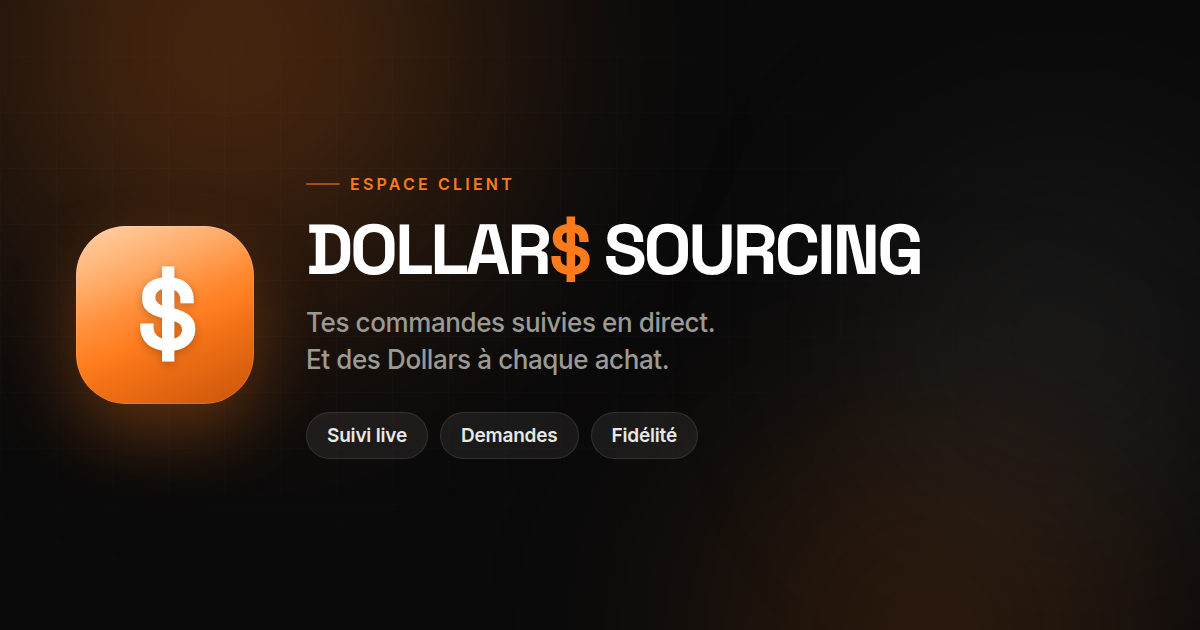
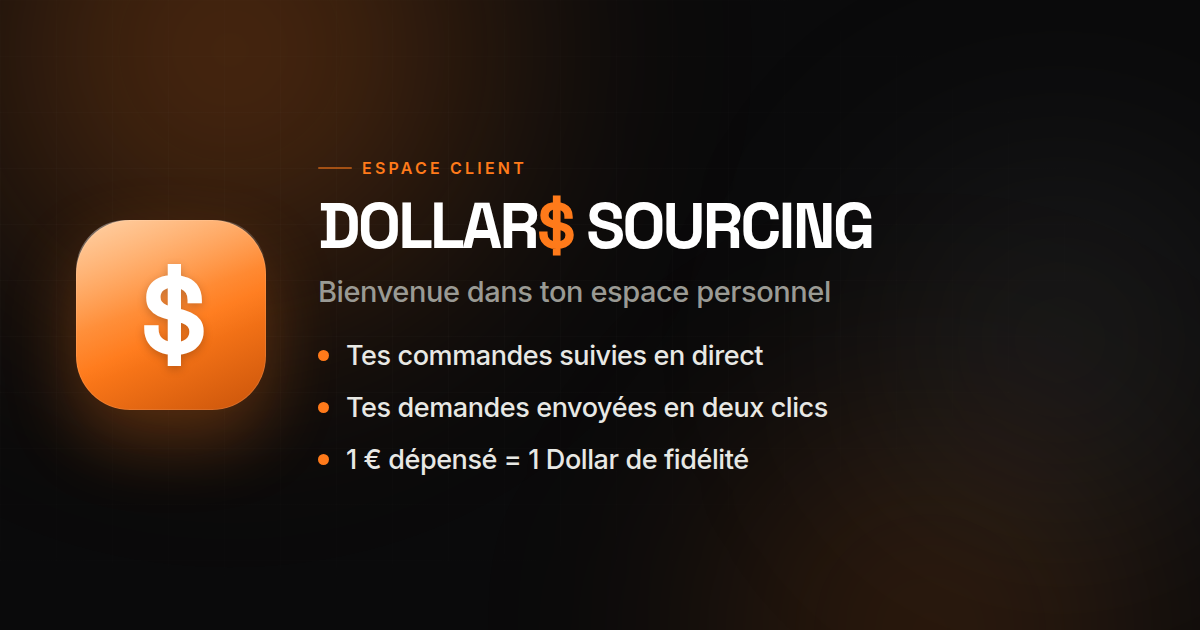
La carte d'aperçu dit à quoi sert l'espace, et l'affiche 9:16 disparaît
Deux images dans une conversation, c'est une de trop : l'affiche jointe et la
carte d'aperçu se faisaient concurrence pour dire la même chose. On garde la
carte, qui arrive toute seule sans geste supplémentaire, et l'affiche part avec
son bouton, ses traductions et ses cent lignes de dessin sur canvas.

La bannière ne se contente plus de la marque et de trois pastilles décoratives.
Elle porte « Bienvenue dans ton espace personnel » puis les trois choses que le
client doit comprendre en deux secondes : ses commandes suivies en direct, ses
demandes envoyées en deux clics, et un Dollar de fidélité par euro dépensé. La
pièce grossit un peu pour tenir l'équilibre face à ce bloc plus haut.

Elle reste la même pour tout le monde. La personnaliser au prénom exigerait une
fonction serveur passant devant chaque page du site pour réécrire les balises à
la volée, avec les risques que ça implique sur le portail lui-même : écarté. Le
prénom vit très bien dans le texte du message, qui commence déjà par
« Bienvenue chez DOLLAR$ SOURCING, Lucas ».

Le titre de l'aperçu devient « Bienvenue chez DOLLAR$ SOURCING » et sa
description détaille les trois usages : l'image et le texte se complètent au
lieu de répéter la même phrase l'un sous l'autre.

Vérifié : plus aucune trace de l'affiche dans le code, syntaxe des deux
fichiers, parité FR/EN 284 et 135, aucune clé de traduction manquante,
balises équilibrées, et la fiche client se rouvre toujours à la création avec
[…]

diff --git a/index.html b/index.html
@@ -1573,8 +1573,6 @@
         <button type="button" class="link-btn" id="regenCodeBtn" data-i18n="newCode">Nouveau</button>
       </div>
       <button type="button" class="link-btn wa" id="waClientLinkBtn" style="width:100%; margin-top:8px;" data-i18n="sendWhatsapp">Envoyer sur WhatsApp</button>
-      <button type="button" class="link-btn" id="posterBtn" style="width:100%; margin-top:8px;" data-i18n="posterBtn">Image de bienvenue</button>
-      <p class="field-hint" style="margin:7px 0 0;" data-i18n="posterHint">À joindre au message : une affiche 9:16 à ses couleurs, avec son prénom.</p>
     </div>
     <div id="clientOrdersSection" style="margin-top:18px;">
       <div style="display:flex; align-items:center; justify-content:space-between; margin-bottom:10px;">
@@ -1866,10 +1864,6 @@ const I18N = {
     confirmRegenCode:"Générer un nouveau code ? L'ancien ne fonctionnera plus et le client devra ressaisir le nouveau.",
     toastLinkCopied:'Lien copié',
     toastNoWaNumber:'Aucun numéro WhatsApp valide pour ce client : choisis le destinataire dans WhatsApp.',
-    posterBtn:'Image de bienvenue', posterHint:'À joindre au message : une affiche 9:16 à ses couleurs, avec son prénom.',
-    posterKicker:'ESPACE CLIENT', posterHello:'Bienvenue', posterF1:'Tes commandes suivies en direct',
-    posterF2:'Tes demandes envoyées en deux clics', posterF3:'1 € dépensé = 1 Dollar de fidélité',
-    posterFoot:'Ton lien et ton code sont dans le message', posterReady:'Image prête', posterFail:'Image impossible à générer ici.',
     waLinkMessage:'*Bienvenue chez DOLLAR$ SOURCING, {name}* \ud83d\udc4b\n\nTon espace personnel est prêt : tes commandes suivies en direct, tes demandes envoyées en deux clics, et des Dollars cumulés à chaque achat.\n\n\ud83d\udd17 *Ton lien personnel*\n{link}\n\n\ud83d\udd11 *Ton code d\u2019accès* — {code}\n\n\ud83d\udcf2 *Mets-le sur ton écran d\u2019accueil*\nOuvre le lien, appuie sur _Partager_, puis _Sur l\u2019écran d\u2019accueil_. Tu l\u2019auras comme une vraie application.\n\n_Ce lien est personnel : ne le partage pas._',
     clientCreatedTitle:'Profil créé', clientCreatedText:'Envoie-lui son lien et son code : il pourra suivre ses commandes et cumuler ses Dollars.',
     emptyRequests:"Pas encore de demande de commande.<br>Envoie son lien à un client pour qu'il en passe une.",
@@ -2005,10 +1999,6 @@ const I18N = {
     confirmRegenCode:'Generate a new code? The old one will stop working and the client will need to enter the new one.',
     toastLinkCopied:'Link copied',
     toastNoWaNumber:'No valid WhatsApp number for this client: pick the recipient in WhatsApp.',
-    posterBtn:'Welcome image', posterHint:'To attach to the message: a 9:16 poster in your colours, with their first name.',
-    posterKicker:'CLIENT SPACE', posterHello:'Welcome', posterF1:'Your orders tracked live',
-    posterF2:'Your requests sent in two taps', posterF3:'€1 spent = 1 loyalty Dollar',
-    posterFoot:'Your link and code are in the message', posterReady:'Image ready', posterFail:'Cannot generate the image here.',
     waLinkMessage:'*Welcome to DOLLAR$ SOURCING, {name}* \ud83d\udc4b\n\nYour personal space is ready: orders tracked live, requests sent in two taps, and Dollars earned on every purchase.\n\n\ud83d\udd17 *Your personal link*\n{link}\n\n\ud83d\udd11 *Your access code* — {code}\n\n\ud83d\udcf2 *Put it on your home screen*\nOpen the link, tap _Share_, then _Add to Home Screen_. You will have it like a real app.\n\n_This link is personal: please do not share it._',
     clientCreatedTitle:'Profile created', clientCreatedText:'Send them their link and code: they can follow their orders and collect their Dollars.',
     emptyRequests:"No order request yet.<br>Send a client their link so they can place one.",
@@ -3559,147 +3549,6 @@ $('#waClientLinkBtn').addEventListener('click', ()=>{
     : `https://wa.me/?text=${encodeURIComponent(msg)}`;
   window.open(waUrl, '_blank');
 });
-// ── L'affiche de bienvenue ───────────────────────────────────────────────────
-// Une image 9:16 aux couleurs de l'app, avec le prénom du client, à joindre au
-// message. Le lien et le code restent dans le texte : ils doivent être
-// cliquables et copiables, et un secret dans une photo finit dans la pellicule.
-const POSTER_W = 1080, POSTER_H = 1920;
-
-function roundRect(ctx, x, y, w, h, r){
-  ctx.beginPath();
-  ctx.moveTo(x + r, y);
-  ctx.arcTo(x + w, y,     x + w, y + h, r);
-  ctx.arcTo(x + w, y + h, x,     y + h, r);
-  ctx.arcTo(x,     y + h, x,     y,     r);
-  ctx.arcTo(x,     y,     x + w, y,     r);
-  ctx.closePath();
-}
-// ctx.letterSpacing n'existe pas sur les Safari un peu anciens : on espace à la
-// main, sinon le petit titre en capitales se tasse.
-function tracked(ctx, text, cx, y, space){
-  const chars = text.split('');
-  const total = chars.reduce((w,c)=>w + ctx.measureText(c).width + space, -space);
-  let x = cx - total/2;
-  for(const c of chars){ ctx.fillText(c, x, y); x += ctx.measureText(c).width + space; }
-}
-
-function drawPoster(prenom){
-  const cv = document.createElement('canvas');
-  cv.width = POSTER_W; cv.height = POSTER_H;
-  const g = cv.getContext('2d');
-  const cx = POSTER_W / 2;
-
-  // Fond et masses de lumière : les mêmes que le portail, en version sombre.
-  g.fillStyle = '#0a0a0b'; g.fillRect(0, 0, POSTER_W, POSTER_H);
-  const halo = (x, y, r, couleur) => {
-    const grd = g.createRadialGradient(x, y, 0, x, y, r);
-    grd.addColorStop(0, couleur); grd.addColorStop(1, 'rgba(255,122,26,0)');
-    g.fillStyle = grd; g.fillRect(0, 0, POSTER_W, POSTER_H);
-  };
-  halo(210, 300, 760, 'rgba(255,122,26,0.34)');
-  halo(940, 1500, 720, 'rgba(255,122,26,0.20)');
-  halo(560, 980, 620, 'rgba(142,142,138,0.10)');
-
-  // Grille discrète, atténuée vers les bords
-  g.save();
-  g.globalAlpha = 0.055; g.strokeStyle = '#8e8e8a'; g.lineWidth = 2;
-  for(let x = 0; x <= POSTER_W; x += 90){ g.beginPath(); g.moveTo(x, 0); g.lineTo(x, POSTER_H); g.stroke(); }
-  for(let y = 0; y <= POSTER_H; y += 90){ g.beginPath(); g.moveTo(0, y); g.lineTo(POSTER_W, y); g.stroke(); }
-  g.restore();
-
-  // La pièce de l'app
-  const T = 300, tx = cx - T/2, ty = 300;
-  g.save();
-  g.shadowColor = 'rgba(255,122,26,0.42)'; g.shadowBlur = 90; g.shadowOffsetY = 30;
-  const tuile = g.createLinearGradient(tx, ty, tx + T, ty + T);
-  tuile.addColorStop(0, '#ffb066'); tuile.addColorStop(0.56, '#ff7a1a'); tuile.addColorStop(1, '#c9540a');
-  g.fillStyle = tuile; roundRect(g, tx, ty, T, T, 86); g.fill();
-  g.restore();
-  const reflet = g.createLinearGradient(tx, ty, tx + T*0.75, ty + T);
-  reflet.addColorStop(0, 'rgba(255,255,255,0.42)');
-  reflet.addColorStop(0.44, 'rgba(255,255,255,0.06)');
-  reflet.addColorStop(1, 'rgba(255,255,255,0)');
-  g.fillStyle = reflet; roundRect(g, tx, ty, T, T, 86); g.fill();
-  g.fillStyle = '#fff'; g.textAlign = 'center'; g.textBaseline = 'middle';
-  g.font = '700 176px "Space Grotesk", sans-serif';
-  g.fillText('$', cx, ty + T/2 + 6);
-
-  g.textBaseline = 'alphabetic';
-
-  // Le petit titre, entre deux filets
-  g.fillStyle = '#ff7a1a'; g.font = '600 26px Inter, sans-serif'; g.textAlign = 'left';
-  const kicker = t('posterKicker');
-  tracked(g, kicker, cx, 726, 7);
-  g.strokeStyle = 'rgba(255,122,26,0.5)'; g.lineWidth = 3;
-  const demi = (g.measureText(kicker).width + kicker.length * 7) / 2;
-  [[cx - demi - 76, cx - demi - 22], [cx + demi + 22, cx + demi + 76]].forEach(([a, b])=>{
-    g.beginPath(); g.moveTo(a, 718); g.lineTo(b, 718); g.stroke();
-  });
-
-  // Bienvenue, puis son prénom
-  g.textAlign = 'center';
-  g.fillStyle = '#9a9a94'; g.font = '500 52px Inter, sans-serif';
-  g.fillText(t('posterHello'), cx, 830);
-  g.fillStyle = '#ffffff';
-  // Un prénom long ne doit pas déborder : on réduit jusqu'à ce qu'il tienne.
-  let taille = 128;
-  do { g.font = '700 ' + taille + 'px "Space Grotesk", sans-serif'; taille -= 4; }
-  while(taille > 56 && g.measureText(prenom).width > POSTER_W - 160);
-  g.fillText(prenom, cx, 962);
-
-  // Trois promesses, alignées à gauche d'un bloc centré
-  const lignes = [t('posterF1'), t('posterF2'), t('posterF3')];
-  let y = 1160;
-  lignes.forEach(txt=>{
-    g.textAlign = 'left';
-    g.fillStyle = '#ff7a1a';
-    g.beginPath(); g.arc(150, y - 12, 9, 0, Math.PI * 2); g.fill();
-    g.fillStyle = '#e8e8e4'; g.font = '500 40px Inter, sans-serif';
-    g.fillText(txt, 190, y);
-    y += 96;
-  });
-
-  // Pied de page : le lien et le code sont dans le message, pas dans l'image.
-  g.textAlign = 'center';
-  g.strokeStyle = 'rgba(142,142,138,0.22)'; g.lineWidth = 2;
-  g.beginPath(); g.moveTo(150, 1560); g.lineTo(POSTER_W - 150, 1560); g.stroke();
-  g.fillStyle = '#8e8e8a'; g.font = '500 36px Inter, sans-serif';
-  g.fillText(t('posterFoot'), cx, 1638);
-  g.fillStyle = '#ffffff'; g.font = '700 44px "Space Grotesk", sans-serif';
-  g.fillText('DOLLAR$ SOURCING', cx, 1760);
-  return cv;
-}
-
-// Tout est synchrone jusqu'au partage : Safari annule navigator.share si un
-// await s'intercale entre le clic et l'appel.
-function dataUrlToFile(url, nom){
-  const base64 = url.split(',')[1];
-  const bin = atob(base64);
-  const buf = new Uint8Array(bin.length);
-  for(let i = 0; i < bin.length; i++) buf[i] = bin.charCodeAt(i);
-  return new File([buf], nom, { type: 'image/jpeg' });
-}
-$('#posterBtn').addEventListener('click', ()=>{
-  const c = editingClientId ? clientById(editingClientId) : null;
-  if(!c) return;
-  const prenom = (c.firstname || String(c.name || '').trim().split(/\s+/)[0] || '').trim();
-  let url;
-  try{
-    url = drawPoster(prenom || t('posterHello')).toDataURL('image/jpeg', 0.92);
-  }catch(e){ showToast(t('posterFail')); return; }
-  const nom = 'dollars-sourcing-' + (prenom || 'client').toLowerCase().replace(/[^a-z0-9]/g, '') + '.jpg';
-  const fichier = dataUrlToFile(url, nom);
-  if(navigator.canShare && navigator.canShare({ files: [fichier] })){
-    navigator.share({ files: [fichier] }).catch(()=>{});
-    return;
-  }
-  // Pas de partage natif (ordinateur) : on télécharge, il joindra le fichier.
-  const a = document.createElement('a');
-  a.href = url; a.download = nom;
-  document.body.appendChild(a); a.click(); a.remove();
-  showToast(t('posterReady'));
-});
-
 function closeClientSheet(){ $('#clientOverlay').classList.remove('open'); editingClientId = null; }
 $('#closeClientSheet').addEventListener('click', closeClientSheet);
 $('#clientOverlay').addEventListener('click', (e)=>{ if(e.target===$('#clientOverlay')) closeClientSheet(); });

diff --git a/client.html b/client.html
@@ -17,14 +17,14 @@
      Aucune donnée du client n'y figure : la carte est la même pour tous. -->
 <meta property="og:type" content="website">
 <meta property="og:site_name" content="DOLLAR$ SOURCING">
-<meta property="og:title" content="Ton espace personnel — DOLLAR$ SOURCING">
-<meta property="og:description" content="Suis tes commandes en direct, envoie tes demandes et cumule des Dollars à chaque achat.">
+<meta property="og:title" content="Bienvenue chez DOLLAR$ SOURCING">
+<meta property="og:description" content="Ton espace personnel : tes commandes suivies en direct, tes demandes en deux clics, et 1 Dollar de fidélité par euro dépensé.">
 <meta property="og:image" content="https://dollars-sourcing.pages.dev/og-client.png">
 <meta property="og:image:width" content="1200">
 <meta property="og:image:height" content="630">
 <meta name="twitter:card" content="summary_large_image">
-<meta name="twitter:title" content="Ton espace personnel — DOLLAR$ SOURCING">
-<meta name="twitter:description" content="Suis tes commandes en direct, envoie tes demandes et cumule des Dollars à chaque achat.">
+<meta name="twitter:title" content="Bienvenue chez DOLLAR$ SOURCING">
+<meta name="twitter:description" content="Ton espace personnel : tes commandes suivies en direct, tes demandes en deux clics, et 1 Dollar de fidélité par euro dépensé.">
 <meta name="twitter:image" content="https://dollars-sourcing.pages.dev/og-client.png">
 <link rel="apple-touch-icon" href="apple-touch-icon.png">
 <link rel="icon" href="icon-192.png" type="image/png">

diff --git a/CLAUDE.md b/CLAUDE.md
@@ -71,26 +71,15 @@ refermer `orders` complètement. Une demi-journée.
   affichent au-dessus du lien du client. **Un message WhatsApp est du texte
   brut** : on ne peut pas y envoyer de HTML ni de gabarit, et **un aperçu de
   lien ne s'anime jamais** — c'est une image fixe, en format large, pas en 9:16.
-  Les seules surfaces graphiques sont donc cet aperçu, le balisage propre à
-  WhatsApp (`*gras*`, `_italique_`) dans le texte, et l'affiche décrite plus
-  bas. Regénérable avec un rendu Chromium à cette taille ; les polices du
+  Les seules surfaces graphiques sont donc cet aperçu et le balisage propre à
+  WhatsApp (`*gras*`, `_italique_`) dans le texte. La bannière porte la marque,
+  « Bienvenue dans ton espace personnel » et **trois lignes qui disent à quoi
+  sert le profil** — elle est la même pour tous : la personnaliser au prénom
+  exigerait une fonction serveur devant tout le site, ce qui a été écarté.
+  Le prénom vit donc dans le texte du message. Regénérable avec un rendu Chromium à cette taille ; les polices du
   projet s'installent depuis npm (`@fontsource/space-grotesk`, `@fontsource/inter`)
   et s'embarquent en base64, Google Fonts n'étant pas joignable partout.
 
-### L'affiche de bienvenue
-
-Le bouton « Image de bienvenue » de la fiche client dessine une **affiche 9:16**
-(1080×1920) sur un canvas, aux couleurs sombres de l'app, avec le prénom du
-client — sa taille se réduit toute seule s'il est long. Elle part par
-`navigator.share` quand l'appareil le permet, sinon elle se télécharge.
-
-**Le lien et le code restent dans le texte, jamais dans l'image** : ils doivent
-être cliquables et copiables, et un secret gravé dans une photo finit dans la
-pellicule des deux côtés. L'affiche renvoie donc au message.
-
-Piège : Safari annule `navigator.share` si un `await` s'intercale entre le clic
-et l'appel. Le dessin, l'encodage (`toDataURL` en JPEG) et la construction du
-`File` sont donc **tous synchrones**.
 - `manifest.webmanifest`, `icon-192.png`, `icon-512.png`, `apple-touch-icon.png` —
   ce qu'il faut pour qu'« Ajouter à l'écran d'accueil » installe une vraie app :
   fenêtre propre sans barre de navigateur, icône, nom. **`client.html` n'a
